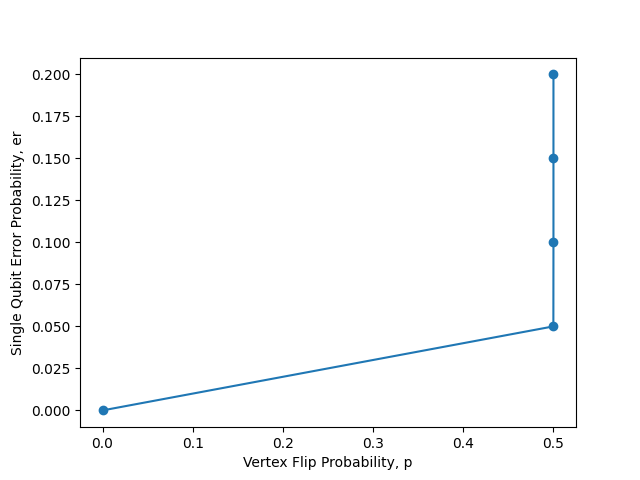
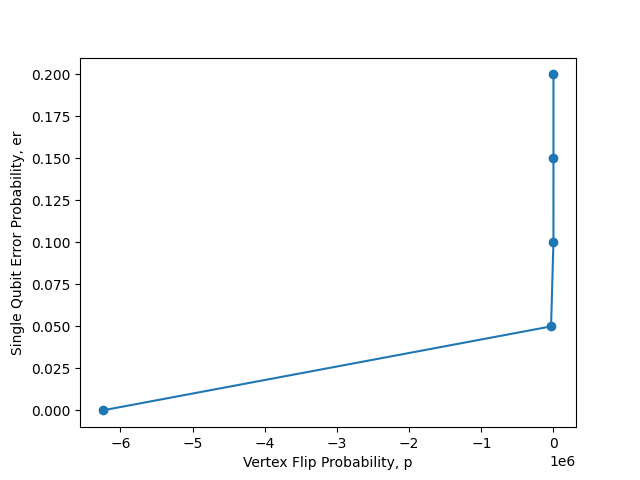
Added RecalculateDenominator

diff --git a/MonteCarlo_and_Expectation value/Main.py b/MonteCarlo_and_Expectation value/Main.py
@@ -1,21 +1,22 @@
 # In the name of God
 # SMani24
 
-import multiprocessing as mp
-import numpy as np
+import os
+import time
 import Utils
+import MonteCarlo
+import numpy as np
+import multiprocessing as mp
+import RecalculateDenominator
 import CalculateExpectaionValue
 import CalculateVertexFlipProbability
-import time
-import MonteCarlo
-import os
 
 startTime = time.time()
 
 NUMBER_OF_ITERATIONS = int(1e4)
 NUMBER_OF_SAMPLES = int(1e3)
 
-FLOAT_SAVING_FORMAT = '%.20f'
+FLOAT_SAVING_FORMAT = '%.40f'
 
 LATTICE_SIZES = [8]
 BETAS = [0.5]
@@ -37,20 +38,20 @@ def sumExpectationValues():
                         vertexExpectationValuesFilePath = outputFilePath + "vertexExpectationValues.csv"
                         linkExpectationValuesFilePath = outputFilePath + "linkExpectationValues.csv"
                         
-                        if os.path.isfile(vertexExpectationValuesFilePath) == False or os.path.isfile(linkExpectationValuesFilePath) == False:
+                        if os.path.isfile(vertexExpectationValuesFilePath) == False: # or os.path.isfile(linkExpectationValuesFilePath) == False:
                                 continue
                         
                         batchVertexExpectationValue = Utils.loadData(vertexExpectationValuesFilePath, float)
-                        batchLinkExpectationValue = Utils.loadData(linkExpectationValuesFilePath, float)
+                        # batchLinkExpectationValue = Utils.loadData(linkExpectationValuesFilePath, float)
 
                         vertexExpectationValues += batchVertexExpectationValue
-                        linkExpectationValues += batchLinkExpectationValue
+                        # linkExpectationValues += batchLinkExpectationValue
 
                     outputFilePath = f"./ExpectationValues/FinalExpectationValue/latticeSize={latticeSize}/Beta={beta}/singleQubitErrorProbability={singleQubitErrorProbability}/"
                     vertexExpectationValuesFilePath = outputFilePath + f"vertex_A_ExpectationValue_configNumber={configNumber}.csv"
-                    linkExpectationValuesFilePath = outputFilePath + f"link_A_ExpectationValue_configNumber={configNumber}.csv"
+                    # linkExpectationValuesFilePath = outputFilePath + f"link_A_ExpectationValue_configNumber={configNumber}.csv"
                     Utils.saveData(vertexExpectationValuesFilePath, vertexExpectationValues, FLOAT_SAVING_FORMAT)
-                    Utils.saveData(linkExpectationValuesFilePath, linkExpectationValues, FLOAT_SAVING_FORMAT)
+                    # Utils.saveData(linkExpectationValuesFilePath, linkExpectationValues, FLOAT_SAVING_FORMAT)
 
 
 if __name__ == "__main__":
@@ -59,51 +60,91 @@ if __name__ == "__main__":
 --- MC to run MonteCarlo
 --- A to calculate <A>
 --- S to sum all partial <A>
---- P to draw the plot:  """)
+--- P to draw the plot
+--- D to recalculate the Denominators (in case of an error):  """)
 
     mp.freeze_support()
     pool = mp.Pool(threadNumber)
     
     poolJobs = []
 
-    if codeToRun.upper() == "S":
-        sumExpectationValues()
-        print("Done!")
-    
-    if codeToRun.upper() == "P":
-        CalculateVertexFlipProbability.drawPlot(BETA=BETAS, LATTICE_SIZE=LATTICE_SIZES, CONFIG_RANGE=CONFIG_NUMBER_RANGE,
-                                                SINGLE_QUBIT_ERROR_PROBABILITIES=SINGLE_QUBIT_ERROR_PROBABILITES)
+    match codeToRun.upper():
+        case 'S':
+            sumExpectationValues()
+            print("Done!")
 
-    if codeToRun.upper() == "MC":
+        case 'P':
+            CalculateVertexFlipProbability.drawPlot(BETA=BETAS, LATTICE_SIZE=LATTICE_SIZES, CONFIG_RANGE=CONFIG_NUMBER_RANGE,
+                                                SINGLE_QUBIT_ERROR_PROBABILITIES=SINGLE_QUBIT_ERROR_PROBABILITES)    
 
-        for latticeSize in LATTICE_SIZES:
-            for beta in BETAS:
-                for singleQubitErrorProbability in SINGLE_QUBIT_ERROR_PROBABILITES:
-                    for configNumber in CONFIG_NUMBER_RANGE:
-                        lambdaZFilePath = f"./LambdaConfigs/latticeSize={latticeSize}/Beta={beta}/singleQubitErrorProbability={singleQubitErrorProbability}/VertexLmabdaConfig={configNumber}.csv"
-                        poolJobs.append((latticeSize, beta, lambdaZFilePath, singleQubitErrorProbability, NUMBER_OF_ITERATIONS, NUMBER_OF_SAMPLES, configNumber))
+        case "MC":
+            for latticeSize in LATTICE_SIZES:
+                for beta in BETAS:
+                    for singleQubitErrorProbability in SINGLE_QUBIT_ERROR_PROBABILITES:
+                        for configNumber in CONFIG_NUMBER_RANGE:
+                            lambdaZFilePath = f"./LambdaConfigs/latticeSize={latticeSize}/Beta={beta}/singleQubitErrorProbability={singleQubitErrorProbability}/VertexLmabdaConfig={configNumber}.csv"
+                            poolJobs.append((latticeSize, beta, lambdaZFilePath, singleQubitErrorProbability, NUMBER_OF_ITERATIONS, NUMBER_OF_SAMPLES, configNumber))
 
-        pool.map(MonteCarlo.multithreadMonteCarlo, poolJobs)
-        finishTime = time.time()
-        print("Total time: ", finishTime - startTime)
-    
-    elif codeToRun.upper() == 'A':
+            pool.map(MonteCarlo.multithreadMonteCarlo, poolJobs)
+            finishTime = time.time()
+            print("Total time: ", finishTime - startTime)
 
-        for latticeSize in LATTICE_SIZES:
-            for beta in BETAS:
-                for singleQubitErrorProbability in SINGLE_QUBIT_ERROR_PROBABILITES:
-                    for configNumber in CONFIG_NUMBER_RANGE:
-                        lambdaZFilePath = f"./LambdaConfigs/latticeSize={latticeSize}/Beta={beta}/singleQubitErrorProbability={singleQubitErrorProbability}/VertexLmabdaConfig={configNumber}.csv"
-                        for batchNumber in BATCH_RANGE:
-                            statesFilePath = f"./MCOutput/latticeSize={latticeSize}/Beta={beta}/singleQubitErrorProbability={singleQubitErrorProbability}/configNumber={configNumber}/Batch={batchNumber}.csv"
-                            outputFilePath = f"./ExpectationValues/PartialExpectationValue/latticeSize={latticeSize}/Beta={beta}/singleQubitErrorProbability={singleQubitErrorProbability}/configNumber={configNumber}/Batch={batchNumber}_"
-                            vertexExpectationValuesFilePath = outputFilePath + "vertexExpectationValues.csv"
-                            linkExpectationValuesFilePath = outputFilePath + "linkExpectationValues.csv"
-                            
-                            if os.path.isfile(statesFilePath) == False or (os.path.isfile(vertexExpectationValuesFilePath ) == True and os.path.isfile(linkExpectationValuesFilePath) == True):
-                                continue
-                            poolJobs.append((statesFilePath, outputFilePath, latticeSize, beta, lambdaZFilePath, batchNumber))
-        
-        pool.map(CalculateExpectaionValue.multiThreadCalculateExpectationValue, poolJobs)
-        finishTime = time.time()
-        print("Total time: ", finishTime - startTime)
+        case 'A':
+            for latticeSize in LATTICE_SIZES:
+                for beta in BETAS:
+                    for singleQubitErrorProbability in SINGLE_QUBIT_ERROR_PROBABILITES:
+                        for configNumber in CONFIG_NUMBER_RANGE:
+                            lambdaZFilePath = f"./LambdaConfigs/latticeSize={latticeSize}/Beta={beta}/singleQubitErrorProbability={singleQubitErrorProbability}/VertexLmabdaConfig={configNumber}.csv"
+                            for batchNumber in BATCH_RANGE:
+                                statesFilePath = f"./MCOutput/latticeSize={latticeSize}/Beta={beta}/singleQubitErrorProbability={singleQubitErrorProbability}/configNumber={configNumber}/Batch={batchNumber}.csv"
+                                outputFilePath = f"./ExpectationValues/PartialExpectationValue/latticeSize={latticeSize}/Beta={beta}/singleQubitErrorProbability={singleQubitErrorProbability}/configNumber={configNumber}/Batch={batchNumber}_"
+                                vertexExpectationValuesFilePath = outputFilePath + "vertexExpectationValues.csv"
+                                linkExpectationValuesFilePath = outputFilePath + "linkExpectationValues.csv"
+                                
+                                if os.path.isfile(statesFilePath) == False or (os.path.isfile(vertexExpectationValuesFilePath ) == True or os.path.isfile(linkExpectationValuesFilePath) == True):
+                                    continue
+                                poolJobs.append((statesFilePath, outputFilePath, latticeSize, beta, lambdaZFilePath, batchNumber))
+            
+            pool.map(CalculateExpectaionValue.multiThreadCalculateExpectationValue, poolJobs)
+            finishTime = time.time()
+            print("Total time: ", finishTime - startTime)
+
+        case 'D':
+            TMPDir = f"./TMP/Denominator/"
+            statesFilePaths = []
+            tmpOutputFilePaths = []
+
+            for latticeSize in LATTICE_SIZES:
+                for beta in BETAS:
+                    for singleQubitErrorProbability in SINGLE_QUBIT_ERROR_PROBABILITES:
+                        for configNumber in CONFIG_NUMBER_RANGE:
+                            MCOutputDir = f"./MCOutput/latticeSize={latticeSize}/Beta={beta}/\
+                                singleQubitErrorProbability={singleQubitErrorProbability}/\
+                                configNumber={configNumber}/"
+                            lambdaZFilePath = f"./LambdaConfigs/latticeSize={latticeSize}/\
+                                Beta={beta}/singleQubitErrorProbability={singleQubitErrorProbability}/\
+                                VertexLmabdaConfig={configNumber}.csv"
+                            for batchNumber in BATCH_RANGE:
+                                statesFilePath = MCOutputDir + f"Batch={batchNumber}.csv"
+                                tmpOutputFilePath = TMPDir + f"latticeSize={latticeSize}/\
+                                Beta={beta}/singleQubitErrorProbability={singleQubitErrorProbability}/\
+                                configNumber={configNumber}/Batch={batchNumber}.csv"
+                                
+                                # Making sure the calculation hasn't been done before
+                                if os.path.isfile(statesFilePath) == False\
+                                    or os.path.isfile(tmpOutputFilePath) == True:
+                                    continue
+
+                                statesFilePaths.append(statesFilePath)
+                                tmpOutputFilePaths.append(tmpOutputFilePath)
+                                poolJobs.append(statesFilePath, latticeSize, beta, 
+                                                lambdaZFilePath, batchNumber, tmpOutputFilePath)
+            # Doing the recalculation
+            pool.map(RecalculateDenominator.multiThreadRecalculateDenominator, poolJobs) 
+            
+            # Uniting the files
+            RecalculateDenominator.UniteFiles(tmpOutputFilePaths=tmpOutputFilePaths,
+                                              statesFilePaths=statesFilePaths)
+            
+            finishTime = time.time()
+            print(f"Finished! total time = {finishTime - startTime}")

diff --git a/MonteCarlo_and_Expectation value/RecalculateDenominator.py b/MonteCarlo_and_Expectation value/RecalculateDenominator.py
@@ -1,0 +1,53 @@
+# In the name of God
+# SMani24
+
+import HoneyComb
+import Utils
+
+FLOAT_SAVING_FORMAT = '%.40f'
+
+def UniteFiles(tmpOutputFilePaths: list[str], statesFilePaths: list[str]): #TODO: ask Moein how to distinguish voids
+    probabilitySum = 0
+    for tmpOutputFilePath in tmpOutputFilePaths:
+        partialProbabilitySum = Utils.loadData(filePath=tmpOutputFilePath, dtype=FLOAT_SAVING_FORMAT)
+        probabilitySum += partialProbabilitySum
+    
+    for statesFilePath in statesFilePaths:
+        states = Utils.loadData(filePath=statesFilePath)
+        states[0] = f"{probabilitySum:.40f}"
+
+        Utils.saveData(filePath=statesFilePath, data=states)
+
+def RecalculateDenominator(statesFilePath: str, latticeSize: int, 
+                           beta: int, lambdaZFilePath: str,
+                           batchNumber: int, tmpOutPutDir: str): #TODO: ask Moein how to distinguish voids
+    """
+        Recalculates the denominator stored in the up batch file in case
+        of an error. Note that it only partially calculates the denominator
+        based on the states in a single file, the results need to be summed 
+        over to get the final denominator
+    """
+    # Loading the states
+    states = Utils.loadData(statesFilePath)
+    print(f"Recalculation of Denominator: BatchNumber = {batchNumber} file loaded")
+    
+    # Initializing lattice
+    lattice = HoneyComb.HoneyComb(latticeSize=latticeSize, beta=beta,
+                                  lambdaZFilePath=lambdaZFilePath)
+
+    partialProbabilitySum = 0
+    for stateNumber, state in enumerate(states):
+        if stateNumber == 0:
+            continue
+        lattice.loadState(state)
+        partialProbabilitySum += lattice.getProbability()
+
+    Utils.saveData(tmpOutPutDir, partialProbabilitySum, format=FLOAT_SAVING_FORMAT)
+
+def multiThreadRecalculateDenominator(job):
+    statesFilePath, latticeSize, beta, lambdaZFilePath, batchNumber, tmpOutputFilePath = job
+    RecalculateDenominator(statesFilePath=statesFilePath, 
+                           latticeSize=latticeSize,
+                           beta=beta, lambdaZFilePath=lambdaZFilePath,
+                           batchNumber=batchNumber, tmpOutPutDir=tmpOutputFilePath)
+    

diff --git a/MonteCarlo_and_Expectation value/MonteCarlo.py b/MonteCarlo_and_Expectation value/MonteCarlo.py
@@ -35,6 +35,9 @@ def addOneMoreLayer(lattice, states, probabilitySum):
             newState = lattice.generateStateString()
             if not ((newState in states) or (newState in newStates)):
                 newStates.add(newState)
+                """
+                    Only need to sum over them if they are added
+                """
                 probabilitySum += lattice.getProbability()
     
     states |= newStates
@@ -102,7 +105,7 @@ def MonteCarlo(latticeSize, beta, lambdaZFilePath="", singleQubitErrorProbabilit
                 filePath = f"./MCOutput/latticeSize={latticeSize}/Beta={beta}/singleQubitErrorProbability={singleQubitErrorProbability}/configNumber={configNumber}/Batch={batch}.csv"
                 batch += 1
                 Utils.saveData(filePath, tmpStates, format='%s')
-            tmpStates = [f"{probabilitySum}"]
+            tmpStates = [f"{probabilitySum:.40f}"]
         tmpStates.append(state)
     
     if len(tmpStates) > 1:

diff --git a/MonteCarlo_and_Expectation value/CalculateExpectaionValue.py b/MonteCarlo_and_Expectation value/CalculateExpectaionValue.py
@@ -4,7 +4,7 @@
 import HoneyComb
 import Utils
 
-FLOAT_SAVING_FORMAT = '%.20f'
+FLOAT_SAVING_FORMAT = '%.40f'
 
 def updateVertexExpectationValue(lattice, vertexExpectationValue):
     # print(lattice.calculateVertexExpectationValues())
